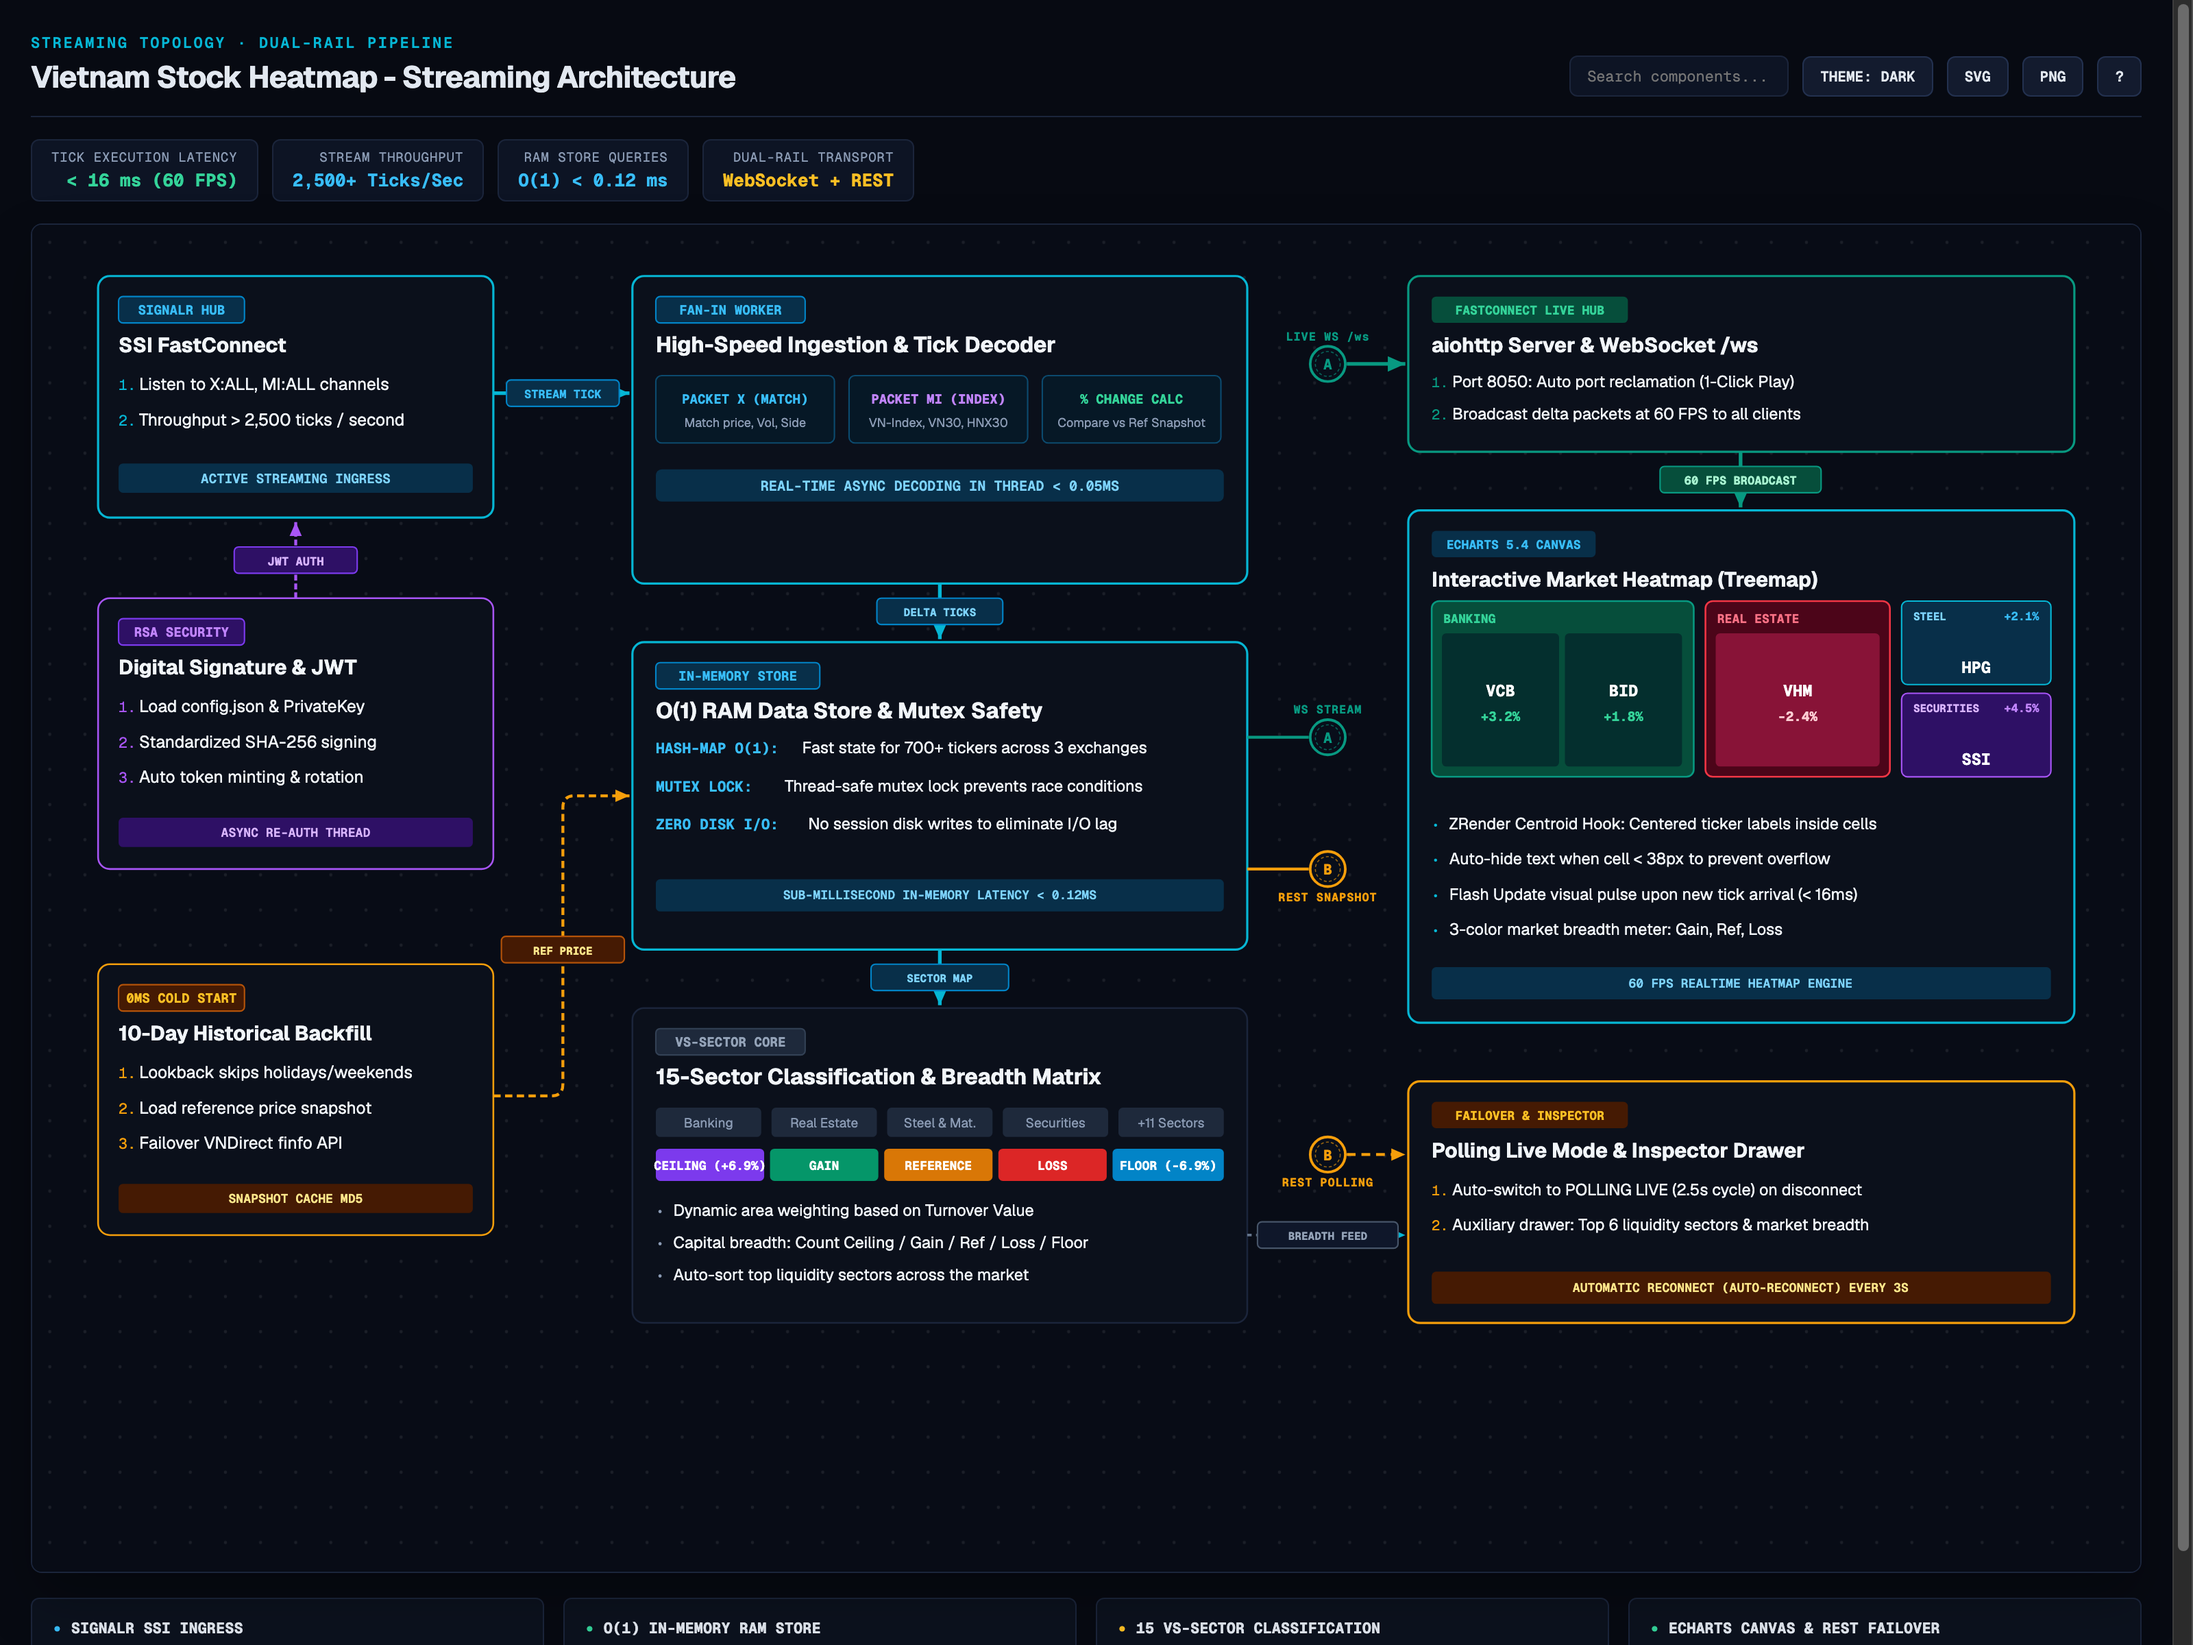
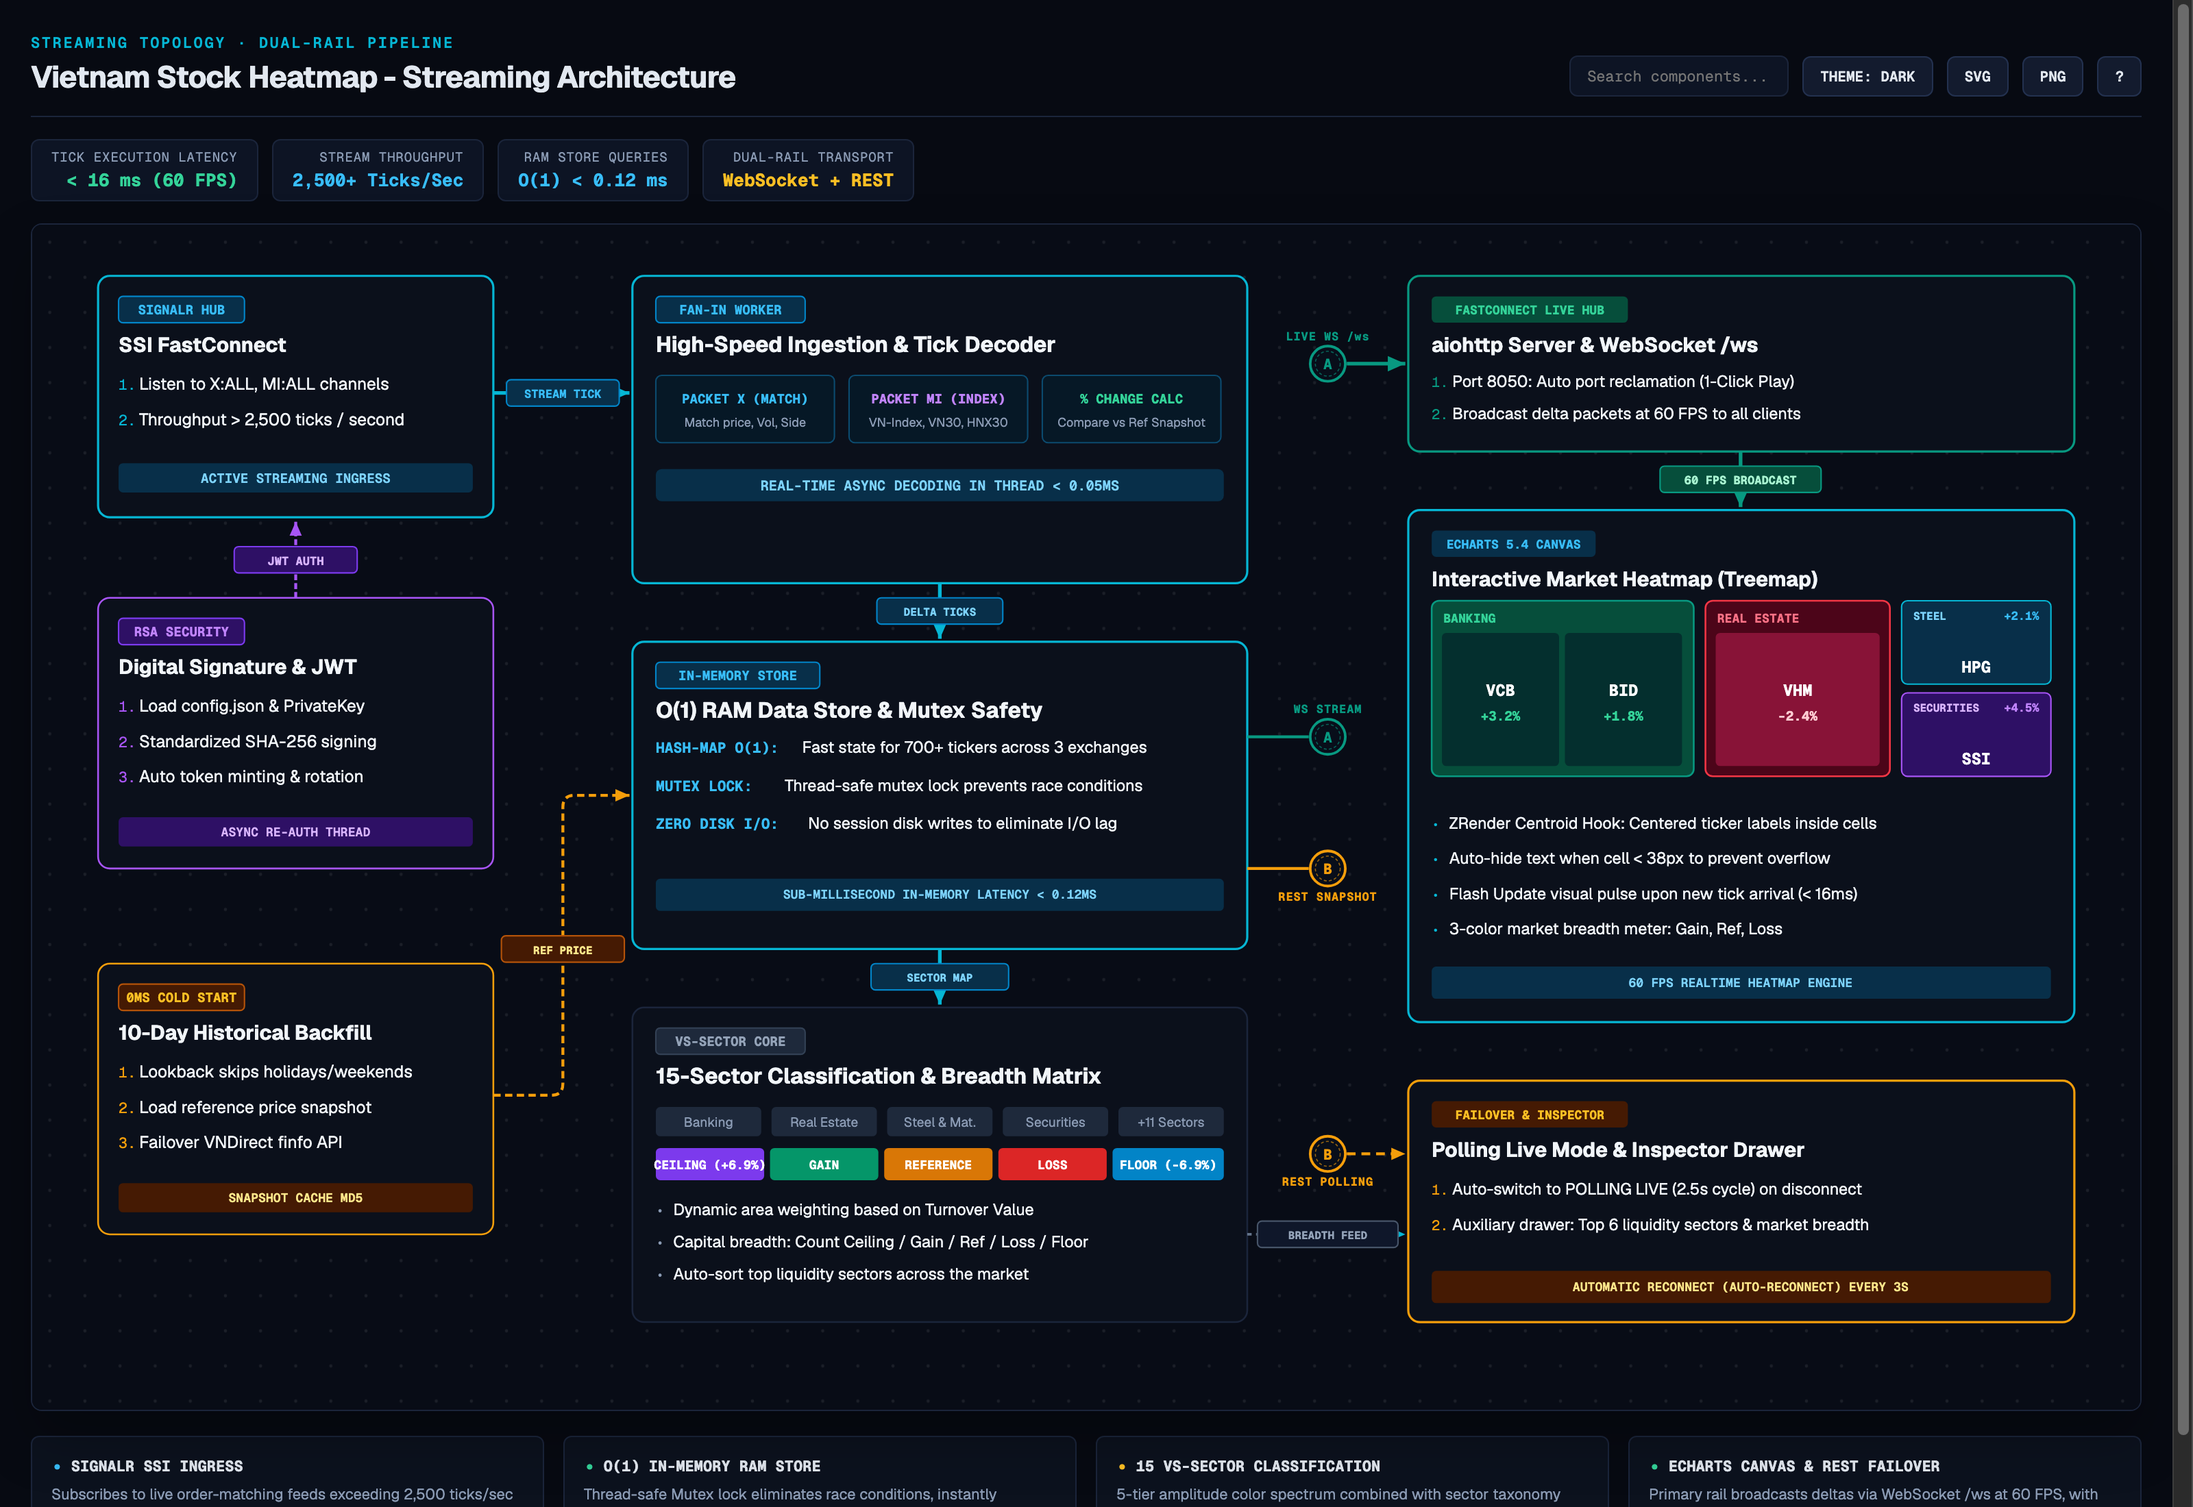
refactor: eliminate bottom canvas dead space and align footer notes with symmetric padding

diff --git a/Product/en/vietnamese-stock-analysis-architecture.html b/Product/en/vietnamese-stock-analysis-architecture.html
@@ -348,7 +348,7 @@
   </div>
 
   <div class="svg-wrapper">
-    <svg id="diagramSvg" viewBox="0 0 1440 920" xmlns="http://www.w3.org/2000/svg">
+    <svg id="diagramSvg" viewBox="0 0 1440 795" xmlns="http://www.w3.org/2000/svg">
       
       <defs>
         <!-- Background Dot Grid Pattern -->
@@ -393,8 +393,8 @@
     
       
       <!-- Background with Dot Grid -->
-      <rect width="1440" height="920" fill="var(--canvas-bg)" />
-      <rect width="1440" height="920" fill="url(#dotGrid)" />
+      <rect width="1440" height="795" fill="var(--canvas-bg)" />
+      <rect width="1440" height="795" fill="url(#dotGrid)" />
 
       
         <!-- Card 1: Raw CafeF ZIP Ingestion -->
@@ -922,7 +922,7 @@
       let source = serializer.serializeToString(svgEl);
       const vb = svgEl.viewBox.baseVal;
       const w = (vb && vb.width) ? vb.width : 1440;
-      const h = (vb && vb.height) ? vb.height : 920;
+      const h = (vb && vb.height) ? vb.height : 795;
 
       const canvas = document.createElement('canvas');
       const scale = 2; // 2x Retina quality

diff --git a/Product/vietnamese-stock-analysis-architecture.html b/Product/vietnamese-stock-analysis-architecture.html
@@ -348,7 +348,7 @@
   </div>
 
   <div class="svg-wrapper">
-    <svg id="diagramSvg" viewBox="0 0 1440 920" xmlns="http://www.w3.org/2000/svg">
+    <svg id="diagramSvg" viewBox="0 0 1440 795" xmlns="http://www.w3.org/2000/svg">
       
       <defs>
         <!-- Background Dot Grid Pattern -->
@@ -393,8 +393,8 @@
     
       
       <!-- Background with Dot Grid -->
-      <rect width="1440" height="920" fill="var(--canvas-bg)" />
-      <rect width="1440" height="920" fill="url(#dotGrid)" />
+      <rect width="1440" height="795" fill="var(--canvas-bg)" />
+      <rect width="1440" height="795" fill="url(#dotGrid)" />
 
       
         <!-- Card 1: Raw CafeF ZIP Ingestion -->
@@ -922,7 +922,7 @@
       let source = serializer.serializeToString(svgEl);
       const vb = svgEl.viewBox.baseVal;
       const w = (vb && vb.width) ? vb.width : 1440;
-      const h = (vb && vb.height) ? vb.height : 920;
+      const h = (vb && vb.height) ? vb.height : 795;
 
       const canvas = document.createElement('canvas');
       const scale = 2; // 2x Retina quality

diff --git a/output/en/vietnamese_stock_analysis.html b/output/en/vietnamese_stock_analysis.html
@@ -348,7 +348,7 @@
   </div>
 
   <div class="svg-wrapper">
-    <svg id="diagramSvg" viewBox="0 0 1440 920" xmlns="http://www.w3.org/2000/svg">
+    <svg id="diagramSvg" viewBox="0 0 1440 795" xmlns="http://www.w3.org/2000/svg">
       
       <defs>
         <!-- Background Dot Grid Pattern -->
@@ -393,8 +393,8 @@
     
       
       <!-- Background with Dot Grid -->
-      <rect width="1440" height="920" fill="var(--canvas-bg)" />
-      <rect width="1440" height="920" fill="url(#dotGrid)" />
+      <rect width="1440" height="795" fill="var(--canvas-bg)" />
+      <rect width="1440" height="795" fill="url(#dotGrid)" />
 
       
         <!-- Card 1: Raw CafeF ZIP Ingestion -->
@@ -922,7 +922,7 @@
       let source = serializer.serializeToString(svgEl);
       const vb = svgEl.viewBox.baseVal;
       const w = (vb && vb.width) ? vb.width : 1440;
-      const h = (vb && vb.height) ? vb.height : 920;
+      const h = (vb && vb.height) ? vb.height : 795;
 
       const canvas = document.createElement('canvas');
       const scale = 2; // 2x Retina quality

diff --git a/output/vietnamese_stock_analysis.html b/output/vietnamese_stock_analysis.html
@@ -348,7 +348,7 @@
   </div>
 
   <div class="svg-wrapper">
-    <svg id="diagramSvg" viewBox="0 0 1440 920" xmlns="http://www.w3.org/2000/svg">
+    <svg id="diagramSvg" viewBox="0 0 1440 795" xmlns="http://www.w3.org/2000/svg">
       
       <defs>
         <!-- Background Dot Grid Pattern -->
@@ -393,8 +393,8 @@
     
       
       <!-- Background with Dot Grid -->
-      <rect width="1440" height="920" fill="var(--canvas-bg)" />
-      <rect width="1440" height="920" fill="url(#dotGrid)" />
+      <rect width="1440" height="795" fill="var(--canvas-bg)" />
+      <rect width="1440" height="795" fill="url(#dotGrid)" />
 
       
         <!-- Card 1: Raw CafeF ZIP Ingestion -->
@@ -922,7 +922,7 @@
       let source = serializer.serializeToString(svgEl);
       const vb = svgEl.viewBox.baseVal;
       const w = (vb && vb.width) ? vb.width : 1440;
-      const h = (vb && vb.height) ? vb.height : 920;
+      const h = (vb && vb.height) ? vb.height : 795;
 
       const canvas = document.createElement('canvas');
       const scale = 2; // 2x Retina quality

diff --git a/Product/en/vietnam-stock-heatmap-architecture.html b/Product/en/vietnam-stock-heatmap-architecture.html
@@ -348,7 +348,7 @@
   </div>
 
   <div class="svg-wrapper">
-    <svg id="diagramSvg" viewBox="0 0 1440 920" xmlns="http://www.w3.org/2000/svg">
+    <svg id="diagramSvg" viewBox="0 0 1440 810" xmlns="http://www.w3.org/2000/svg">
       
       <defs>
         <!-- Background Dot Grid Pattern -->
@@ -393,8 +393,8 @@
     
       
       <!-- Background with Dot Grid -->
-      <rect width="1440" height="920" fill="var(--canvas-bg)" />
-      <rect width="1440" height="920" fill="url(#dotGrid)" />
+      <rect width="1440" height="810" fill="var(--canvas-bg)" />
+      <rect width="1440" height="810" fill="url(#dotGrid)" />
 
       
         <!-- Ingress Card 1: SignalR -->
@@ -878,7 +878,7 @@
       let source = serializer.serializeToString(svgEl);
       const vb = svgEl.viewBox.baseVal;
       const w = (vb && vb.width) ? vb.width : 1440;
-      const h = (vb && vb.height) ? vb.height : 920;
+      const h = (vb && vb.height) ? vb.height : 810;
 
       const canvas = document.createElement('canvas');
       const scale = 2; // 2x Retina quality

diff --git a/Product/vietnam-stock-heatmap-architecture.html b/Product/vietnam-stock-heatmap-architecture.html
@@ -348,7 +348,7 @@
   </div>
 
   <div class="svg-wrapper">
-    <svg id="diagramSvg" viewBox="0 0 1440 920" xmlns="http://www.w3.org/2000/svg">
+    <svg id="diagramSvg" viewBox="0 0 1440 810" xmlns="http://www.w3.org/2000/svg">
       
       <defs>
         <!-- Background Dot Grid Pattern -->
@@ -393,8 +393,8 @@
     
       
       <!-- Background with Dot Grid -->
-      <rect width="1440" height="920" fill="var(--canvas-bg)" />
-      <rect width="1440" height="920" fill="url(#dotGrid)" />
+      <rect width="1440" height="810" fill="var(--canvas-bg)" />
+      <rect width="1440" height="810" fill="url(#dotGrid)" />
 
       
         <!-- Ingress Card 1: SignalR -->
@@ -878,7 +878,7 @@
       let source = serializer.serializeToString(svgEl);
       const vb = svgEl.viewBox.baseVal;
       const w = (vb && vb.width) ? vb.width : 1440;
-      const h = (vb && vb.height) ? vb.height : 920;
+      const h = (vb && vb.height) ? vb.height : 810;
 
       const canvas = document.createElement('canvas');
       const scale = 2; // 2x Retina quality

diff --git a/output/en/vietnam_stock_heatmap.html b/output/en/vietnam_stock_heatmap.html
@@ -348,7 +348,7 @@
   </div>
 
   <div class="svg-wrapper">
-    <svg id="diagramSvg" viewBox="0 0 1440 920" xmlns="http://www.w3.org/2000/svg">
+    <svg id="diagramSvg" viewBox="0 0 1440 810" xmlns="http://www.w3.org/2000/svg">
       
       <defs>
         <!-- Background Dot Grid Pattern -->
@@ -393,8 +393,8 @@
     
       
       <!-- Background with Dot Grid -->
-      <rect width="1440" height="920" fill="var(--canvas-bg)" />
-      <rect width="1440" height="920" fill="url(#dotGrid)" />
+      <rect width="1440" height="810" fill="var(--canvas-bg)" />
+      <rect width="1440" height="810" fill="url(#dotGrid)" />
 
       
         <!-- Ingress Card 1: SignalR -->
@@ -878,7 +878,7 @@
       let source = serializer.serializeToString(svgEl);
       const vb = svgEl.viewBox.baseVal;
       const w = (vb && vb.width) ? vb.width : 1440;
-      const h = (vb && vb.height) ? vb.height : 920;
+      const h = (vb && vb.height) ? vb.height : 810;
 
       const canvas = document.createElement('canvas');
       const scale = 2; // 2x Retina quality

diff --git a/output/vietnam_stock_heatmap.html b/output/vietnam_stock_heatmap.html
@@ -348,7 +348,7 @@
   </div>
 
   <div class="svg-wrapper">
-    <svg id="diagramSvg" viewBox="0 0 1440 920" xmlns="http://www.w3.org/2000/svg">
+    <svg id="diagramSvg" viewBox="0 0 1440 810" xmlns="http://www.w3.org/2000/svg">
       
       <defs>
         <!-- Background Dot Grid Pattern -->
@@ -393,8 +393,8 @@
     
       
       <!-- Background with Dot Grid -->
-      <rect width="1440" height="920" fill="var(--canvas-bg)" />
-      <rect width="1440" height="920" fill="url(#dotGrid)" />
+      <rect width="1440" height="810" fill="var(--canvas-bg)" />
+      <rect width="1440" height="810" fill="url(#dotGrid)" />
 
       
         <!-- Ingress Card 1: SignalR -->
@@ -878,7 +878,7 @@
       let source = serializer.serializeToString(svgEl);
       const vb = svgEl.viewBox.baseVal;
       const w = (vb && vb.width) ? vb.width : 1440;
-      const h = (vb && vb.height) ? vb.height : 920;
+      const h = (vb && vb.height) ? vb.height : 810;
 
       const canvas = document.createElement('canvas');
       const scale = 2; // 2x Retina quality

diff --git a/src/topologies/medallion_lakehouse.py b/src/topologies/medallion_lakehouse.py
@@ -16,7 +16,7 @@ class MedallionLakehouseCompiler:
     def __init__(self, spec):
         self.spec = spec
         self.width = spec.get("width", 1440)
-        self.height = spec.get("height", 920)
+        self.height = spec.get("height", 795)
         self.is_en = spec.get("locale") == "en" or spec.get("lang") == "en"
 
     def compile(self):

diff --git a/src/topologies/streaming_topology.py b/src/topologies/streaming_topology.py
@@ -16,7 +16,7 @@ class StreamingTopologyCompiler:
     def __init__(self, spec):
         self.spec = spec
         self.width = spec.get("width", 1440)
-        self.height = spec.get("height", 920)
+        self.height = spec.get("height", 810)
         self.is_en = spec.get("locale") == "en" or spec.get("lang") == "en"
 
     def compile(self):
